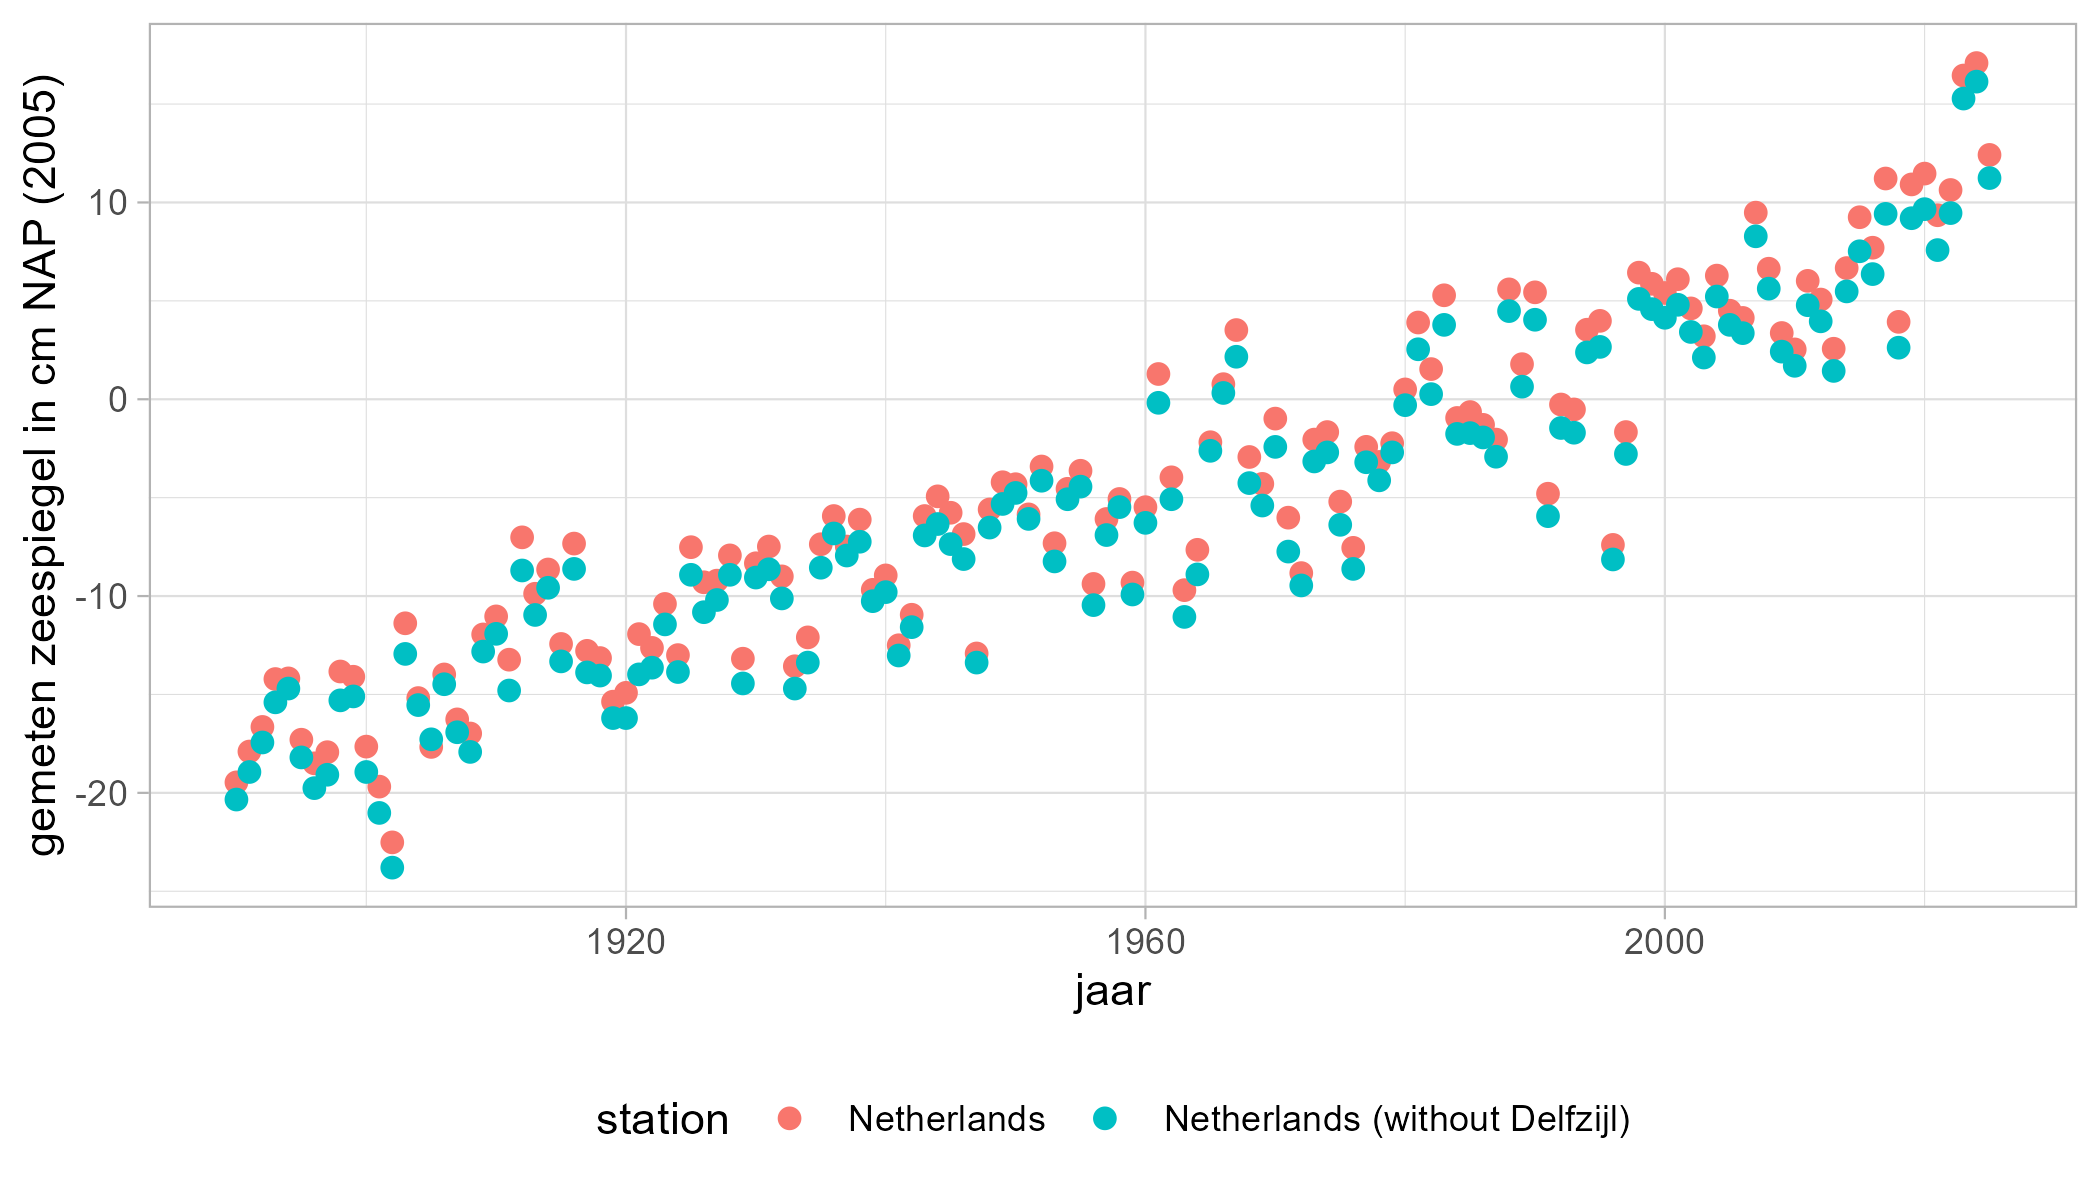
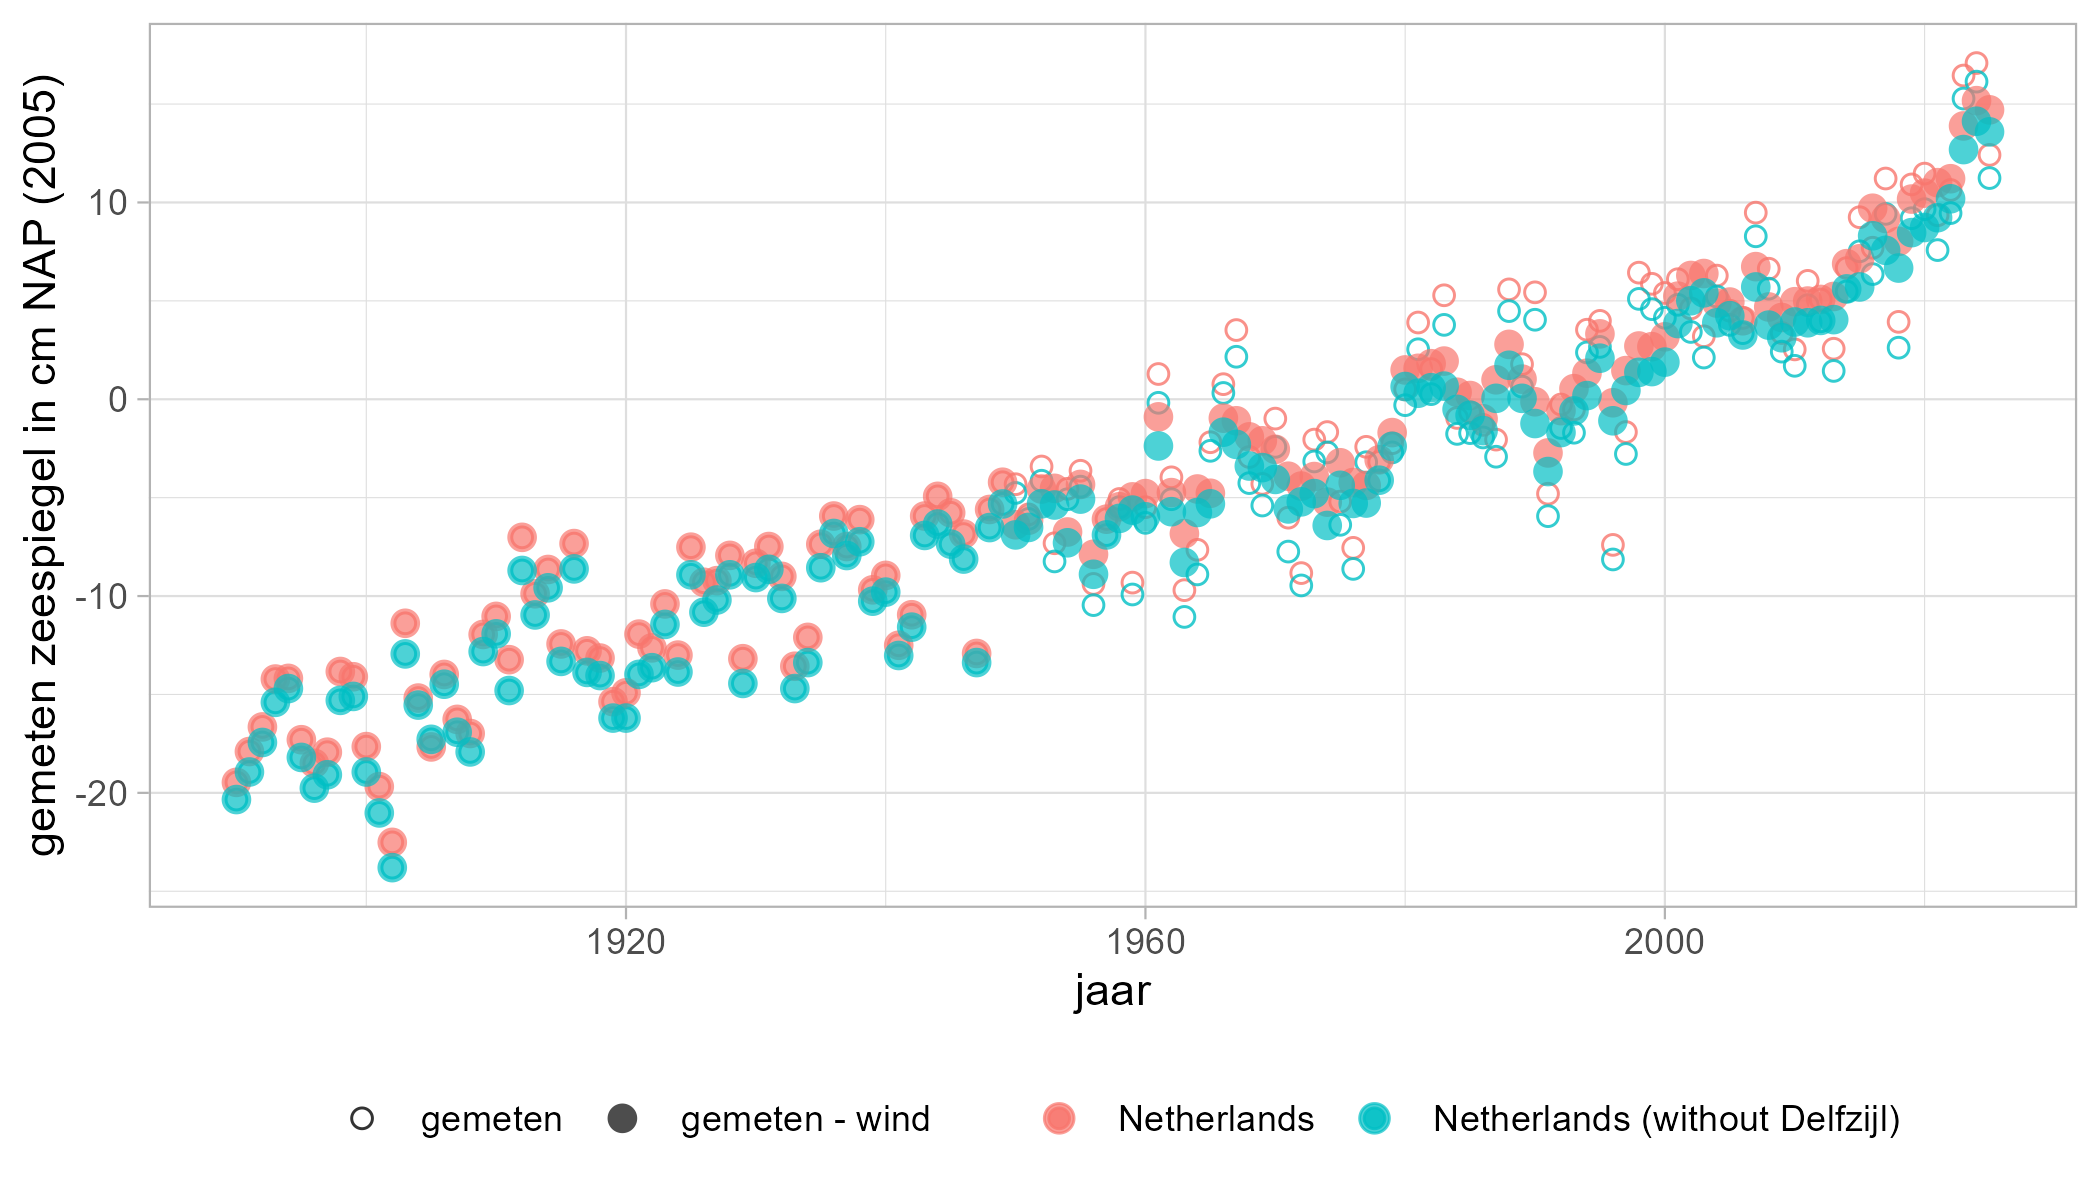
deploy: 6dc6356b99ed657bccef6acf575c1286b0bdeae3

Changed region(s): [[0.0929, 0.0308, 0.9595, 0.74], [0.1857, 0.925, 0.8976, 0.9558], [0.7429, 0.4317, 0.7738, 0.4933]]

diff --git a/preview/develop_reporting26_willem/03_resultaten.html b/preview/develop_reporting26_willem/03_resultaten.html
@@ -297,14 +297,14 @@ div.csl-indent {
 <p>Dit hoofdstuk beschrijft de resultaten tot en met 2025. Na de bespreking volgt een vergelijking met wat anderen rapporteren over de Nederlandse zeespiegel. Het hoofdstuk sluit af met bespreking van de verschillen binnen Nederland en de vergelijking met satellietmetingen.</p>
 <section id="de-zeespiegel-stijgt-in-nederland" class="level2" data-number="4.1">
 <h2 data-number="4.1" class="anchored" data-anchor-id="de-zeespiegel-stijgt-in-nederland"><span class="header-section-number">4.1</span> De zeespiegel stijgt in Nederland</h2>
-<p>We hebben een goed beeld hoe de zeespiegelstand langs de Nederlandse kust zich heeft ontwikkeld. Gedurende de periode van de metingen (1890 - heden) heeft de relatieve zeespiegel altijd een gestaag stijgende lijn vertoond (<a href="#fig-zeespiegel-nederland-metingen" class="quarto-xref">Figuur&nbsp;<span>4.1</span></a>). Deze metingen geven veel variatie van jaar tot jaar. Een groot deel daarvan is te verklaren (<a href="#sec-windopzetcorrectie" class="quarto-xref"><span>Paragraaf 4.5</span></a> en <a href="#sec-nodaalgetij-resultaten" class="quarto-xref"><span>Paragraaf 4.6</span></a>). Hierdoor, en door de lange tijdserie, is er geen enkele twijfel dat de zeespiegel over deze periode continu stijgt.</p>
+<p>We hebben een goed beeld hoe de zeespiegelstand langs de Nederlandse kust zich heeft ontwikkeld. Gedurende de periode van de metingen (1890 - heden) heeft de relatieve zeespiegel altijd een gestaag stijgende lijn vertoond (<a href="#fig-zeespiegel-nederland-metingen" class="quarto-xref">Figuur&nbsp;<span>4.1</span></a>). Deze metingen geven veel variatie van jaar tot jaar. Een groot deel daarvan is te verklaren door variatie in windopzet zoals in <a href="#fig-zeespiegel-nederland-metingen" class="quarto-xref">Figuur&nbsp;<span>4.1</span></a> te zien is. Variatie door nodaal getij wordt in het regressiemodel meegenomen, en is een resultaat van de analyse (<a href="#sec-nodaalgetij-resultaten" class="quarto-xref"><span>Paragraaf 4.6</span></a>). Doordat we de variatie kunnen verklaren, en door de lange tijdserie, is er geen enkele twijfel dat de zeespiegel over deze periode continu stijgt.</p>
 <div id="fig-zeespiegel-nederland-metingen" class="quarto-float quarto-figure quarto-figure-center anchored">
 <figure class="quarto-float quarto-float-fig figure">
 <div aria-describedby="fig-zeespiegel-nederland-metingen-caption-0ceaefa1-69ba-4598-a22c-09a6ac19f8ca">
-<a href="images/zeespiegelmetingenGemiddelde.png" class="lightbox" data-gallery="quarto-lightbox-gallery-1" title="Figuur&nbsp;4.1: Het gemiddelde van de gemeten zeespiegel voor de hoofdstations langs de Nederlandse kust. Het weglaten van het station Delfzijl heeft vooral invloed op de absolute hoogte van de zeespiegel, en minder op de trend."><img src="images/zeespiegelmetingenGemiddelde.png" class="img-fluid figure-img" style="width:80.0%"></a>
+<a href="images/zeespiegelmetingenGemiddelde.png" class="lightbox" data-gallery="quarto-lightbox-gallery-1" title="Figuur&nbsp;4.1: Het gemiddelde van de gemeten zeespiegel (open symbolen) en gemeten zeespiegel gecorrigeerd voor windopzet (dichte symbolen) voor de hoofdstations langs de Nederlandse kust. Het weglaten van het station Delfzijl heeft vooral invloed op de absolute hoogte van de zeespiegel, en minder op de trend."><img src="images/zeespiegelmetingenGemiddelde.png" class="img-fluid figure-img" style="width:80.0%"></a>
 </div>
 <figcaption class="quarto-float-caption-bottom quarto-float-caption quarto-float-fig" id="fig-zeespiegel-nederland-metingen-caption-0ceaefa1-69ba-4598-a22c-09a6ac19f8ca">
-Figuur&nbsp;4.1: Het gemiddelde van de gemeten zeespiegel voor de hoofdstations langs de Nederlandse kust. Het weglaten van het station Delfzijl heeft vooral invloed op de absolute hoogte van de zeespiegel, en minder op de trend.
+Figuur&nbsp;4.1: Het gemiddelde van de gemeten zeespiegel (open symbolen) en gemeten zeespiegel gecorrigeerd voor windopzet (dichte symbolen) voor de hoofdstations langs de Nederlandse kust. Het weglaten van het station Delfzijl heeft vooral invloed op de absolute hoogte van de zeespiegel, en minder op de trend.
 </figcaption>
 </figure>
 </div>
@@ -646,7 +646,7 @@ Figuur&nbsp;4.11: Zeespiegelstijging voor de hoofdstations. De stijging is opges
 </figcaption>
 </figure>
 </div>
-<p>Door de aanleg van de Afsluitdijk zijn de verdeling van stromingen, getij en zoutgehalte in de westelijke Waddenzee veranderd. Dit zette Hierdoor is een proces in gang gezet waarbij door de Wwestelijke Waddenzee zich decennialang heeft ‘aangepaste’ aan de nieuwe omstandigheden, met vooral veranderingen in de vooral morfologie, die maar daardoor ook weer tot veranderingen in getij en stroming tot gevolgleidden. De verdeling van zoetwater afkomstig verdeling vanuit het Ijsselmeer in de Waddenzee is deels daardoor, en deels door veranderde afvoer van de IJssel ook over een lange periode in de 20e eeuw veranderd. Dit is verder uitgewerkt in <a href="10_appendix_E.html" class="quarto-xref"><span>Bijlage E</span></a>.</p>
+<p>Door de aanleg van de Afsluitdijk zijn de verdeling van stromingen, getij en zoutgehalte in de westelijke Waddenzee veranderd. Dit zette Hierdoor is een proces in gang gezet waarbij door de westelijke Waddenzee zich decennialang heeft ‘aangepaste’ aan de nieuwe omstandigheden, met vooral veranderingen in de vooral morfologie, die maar daardoor ook weer tot veranderingen in getij en stroming tot gevolgleidden. De verdeling van zoetwater afkomstig verdeling vanuit het Ijsselmeer in de Waddenzee is deels daardoor, en deels door veranderde afvoer van de IJssel ook over een lange periode in de 20e eeuw veranderd. Dit is verder uitgewerkt in <a href="10_appendix_E.html" class="quarto-xref"><span>Bijlage E</span></a>.</p>
 </section>
 <section id="vergelijking-met-satellietmetingen" class="level2" data-number="4.12">
 <h2 data-number="4.12" class="anchored" data-anchor-id="vergelijking-met-satellietmetingen"><span class="header-section-number">4.12</span> Vergelijking met satellietmetingen</h2>
